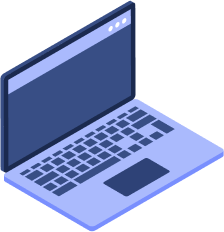
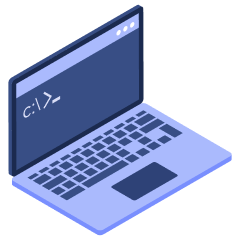
added media for retina

Changed region(s): [[0.0, 0.0, 1.0, 1.0]]

diff --git a/src/components/organisms/Posts/Posts.js b/src/components/organisms/Posts/Posts.js
@@ -1,55 +1,11 @@
 import React, { useEffect, useState } from 'react';
 import Post from '../../molecules/Post/Post';
+import Container from '../../atoms/Container/Container';
 import './Posts.sass';
 
 import laptop from './img/laptop.png';
+import laptopRetina from './img/laptop-retina.png';
 import ava1 from './img/ava1.jpg';
-import Container from '../../atoms/Container/Container';
-
-const posts = [
-  {
-    authorName: 'Glen Williams',
-    authorNameLink: 'google.com',
-    avatar: ava1,
-    category: 'PRODUCTIVITY',
-    previewImg: laptop,
-    previewImgAltText: 'laptop',
-    text: 'Our team was inspired by the seven skills of highly effective programmers created by the TechLead. We wanted to provide our own take on the topic. Here are our seven skills of effective programmers...',
-    timeAgo: '3 days ago',
-    title: '7 Skills of Highly Effective Programmers',
-    postPreviewBackground:
-      'linear-gradient(135deg, rgba(2,0,36,1) 0%, rgba(9,9,121,1) 35%, rgba(0,212,255,1) 100% )',
-    readMoreLink: 'google.com',
-  },
-  {
-    authorName: 'Glen Williams',
-    authorNameLink: 'google.com',
-    avatar: ava1,
-    category: 'PRODUCTIVITY',
-    previewImg: laptop,
-    previewImgAltText: 'laptop',
-    text: 'Our team was inspired by the seven skills of highly effective programmers created by the TechLead. We wanted to provide our own take on the topic. Here are our seven skills of effective programmers...',
-    timeAgo: '3 days ago',
-    title: '7 Skills of Highly Effective Programmers',
-    postPreviewBackground:
-      'linear-gradient(135deg, rgba(2,0,36,1) 0%, rgba(9,9,121,1) 35%, rgba(0,212,255,1) 100% )',
-    readMoreLink: 'google.com',
-  },
-  {
-    authorName: 'Glen Williams',
-    authorNameLink: 'google.com',
-    avatar: ava1,
-    category: 'PRODUCTIVITY',
-    previewImg: laptop,
-    previewImgAltText: 'laptop',
-    text: 'Our team was inspired by the seven skills of highly effective programmers created by the TechLead. We wanted to provide our own take on the topic. Here are our seven skills of effective programmers...',
-    timeAgo: '3 days ago',
-    title: '7 Skills of Highly Effective Programmers',
-    postPreviewBackground:
-      'linear-gradient(135deg, rgba(2,0,36,1) 0%, rgba(9,9,121,1) 35%, rgba(0,212,255,1) 100% )',
-    readMoreLink: 'google.com',
-  },
-];
 
 export default function Posts() {
   const [posts, setposts] = useState([]);
@@ -76,6 +32,7 @@ export default function Posts() {
             title={post.title}
             postPreviewBackground='linear-gradient(135deg, rgba(2,0,36,1) 0%, rgba(9,9,121,1) 35%, rgba(0,212,255,1) 100% )'
             readMoreLink='google.com'
+            previewImgRetina={laptopRetina}
           />
         ))}
       </Container>

diff --git a/src/components/molecules/Post/PostPreview.js b/src/components/molecules/Post/PostPreview.js
@@ -1,16 +1,19 @@
 import React from 'react';
 
-export default function PostPreview({ img, altText, background }) {
+export default function PostPreview({ img, imgRetina, altText, background }) {
   return (
     <div
       className='post__preview'
       style={{ background: background || '#BCD1FF' }}
     >
-      <img
-        className='post__preview-img'
-        src={img}
-        alt={altText || 'post peview'}
-      />
+      <picture>
+        <source sizes='2x' srcSet={imgRetina} />
+        <img
+          className='post__preview-img'
+          src={img}
+          alt={altText || 'post peview'}
+        />
+      </picture>
     </div>
   );
 }

diff --git a/src/components/molecules/Post/Post.js b/src/components/molecules/Post/Post.js
@@ -1,5 +1,4 @@
 import React from 'react';
-import Container from '../../atoms/Container/Container';
 import './Post.sass';
 import PostContent from './PostContent';
 import PostPreview from './PostPreview';
@@ -17,11 +16,13 @@ export default function Post({
   timeAgo,
   postPreviewBackground,
   readMoreLink,
+  previewImgRetina,
 }) {
   return (
     <article className='post'>
       <PostPreview
         img={previewImg}
+        imgRetina={previewImgRetina}
         altText={previewImgAltText}
         background={postPreviewBackground}
       />
